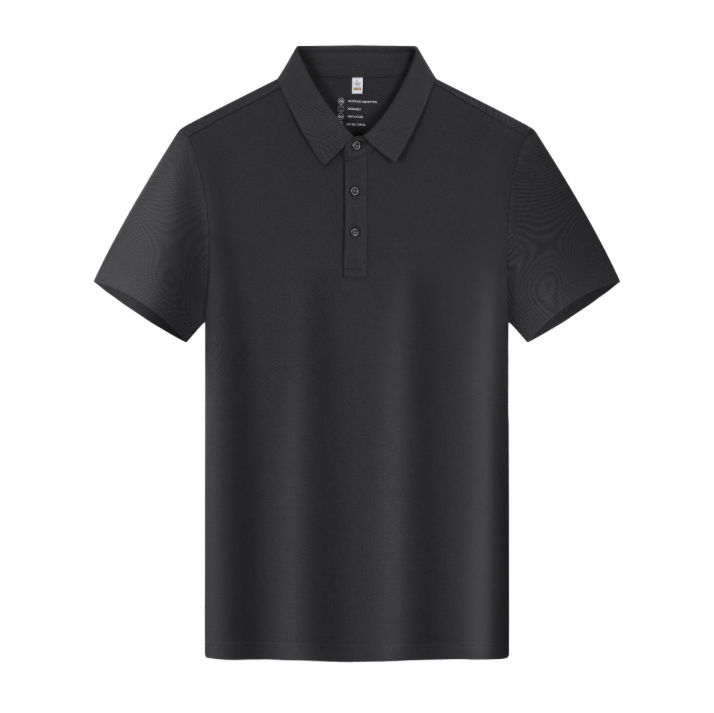
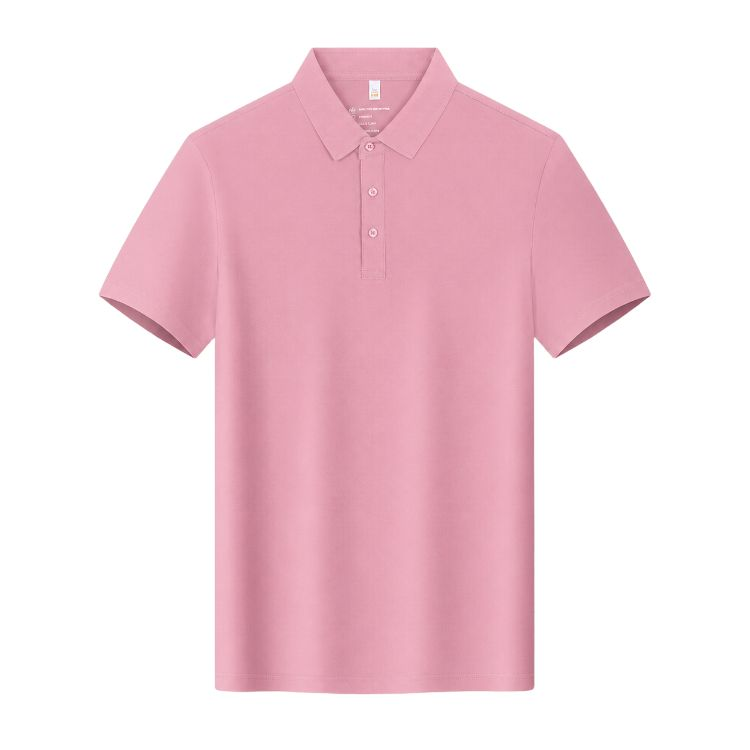
Update TH5611 color images

diff --git a/index.html b/index.html
@@ -39,7 +39,7 @@
       }
     }
   </script>
-  <link rel="stylesheet" href="css/style.css?v=20260619-fabric-fix">
+  <link rel="stylesheet" href="css/style.css?v=20260626-th5611-colors">
 </head>
 <body data-page="home">
   <header class="site-header" data-header>
@@ -51,9 +51,9 @@
     <nav class="site-nav" data-nav>
       <a href="index.html">HOME</a>
       <a href="about.html">ABOUT</a>
-      <a href="products.html?v=20260619-fabric-fix">PRODUCTS</a>
-      <a href="lookbook.html?v=20260619-fabric-fix">LOOKBOOK</a>
-      <a href="contact.html?v=20260619-fabric-fix">CONTACT</a>
+      <a href="products.html?v=20260626-th5611-colors">PRODUCTS</a>
+      <a href="lookbook.html?v=20260626-th5611-colors">LOOKBOOK</a>
+      <a href="contact.html?v=20260626-th5611-colors">CONTACT</a>
     </nav>
   </header>
 
@@ -67,8 +67,8 @@
       </div>
       <!-- <div class="hero-copy fade-up">
         <div class="button-row">
-          <a class="btn btn-dark" href="products.html?v=20260619-fabric-fix">View Products</a>
-          <a class="btn btn-light" href="contact.html?v=20260619-fabric-fix">카카오톡 문의하기</a>
+          <a class="btn btn-dark" href="products.html?v=20260626-th5611-colors">View Products</a>
+          <a class="btn btn-light" href="contact.html?v=20260626-th5611-colors">카카오톡 문의하기</a>
         </div>
       </div> -->
     </section>
@@ -79,7 +79,7 @@
         <h2>PRODUCT CATEGORIES</h2>
       </div>
       <div class="category-grid">
-        <a class="category-card image-card" href="products.html?category=Short%20Sleeve&v=20260619-fabric-fix">
+        <a class="category-card image-card" href="products.html?category=Short%20Sleeve&v=20260626-th5611-colors">
           <div class="image-frame" data-label="Short Sleeve">
             <img src="images/products/01OA1/01OA1_image_01.jpg" alt="반팔 제품 대표 이미지">
           </div>
@@ -88,7 +88,7 @@
             <p>Short Sleeve 13 Styles</p>
           </div>
         </a>
-        <a class="category-card image-card" href="products.html?category=Sleeveless&v=20260619-fabric-fix">
+        <a class="category-card image-card" href="products.html?category=Sleeveless&v=20260626-th5611-colors">
           <div class="image-frame" data-label="Sleeveless">
             <img src="images/products/08VS30/08VS30_image_01.jpg" alt="민소매 제품 대표 이미지">
           </div>
@@ -97,7 +97,7 @@
             <p>Sleeveless 3 Styles</p>
           </div>
         </a>
-        <a class="category-card image-card" href="products.html?category=Long%20Sleeve&v=20260619-fabric-fix">
+        <a class="category-card image-card" href="products.html?category=Long%20Sleeve&v=20260626-th5611-colors">
           <div class="image-frame" data-label="Long Sleeve">
             <img src="images/products/06OLK/06OLK_image_02.jpg" alt="긴팔 제품 대표 이미지">
           </div>
@@ -106,7 +106,7 @@
             <p>Long Sleeve 3 Styles</p>
           </div>
         </a>
-        <a class="category-card image-card" href="products.html?category=Polo%20Shirt&v=20260619-fabric-fix">
+        <a class="category-card image-card" href="products.html?category=Polo%20Shirt&v=20260626-th5611-colors">
           <div class="image-frame" data-label="Polo Shirt">
             <img src="images/products/TH9309/polo%20image.jpg" alt="카라티 제품 대표 이미지">
           </div>
@@ -115,7 +115,7 @@
             <p>Polo Shirt 4 Styles</p>
           </div>
         </a>
-        <a class="category-card image-card" href="products.html?category=Sweatshirt&v=20260619-fabric-fix">
+        <a class="category-card image-card" href="products.html?category=Sweatshirt&v=20260626-th5611-colors">
           <div class="image-frame" data-label="Sweatshirt">
             <img src="images/products/OE2700/OE2700_image_01.png" alt="맨투맨 제품 대표 이미지">
           </div>
@@ -124,7 +124,7 @@
             <p>Sweatshirt 4 Styles</p>
           </div>
         </a>
-        <a class="category-card image-card" href="products.html?category=Hoodie&v=20260619-fabric-fix">
+        <a class="category-card image-card" href="products.html?category=Hoodie&v=20260626-th5611-colors">
           <div class="image-frame" data-label="Hoodie">
             <img src="images/products/QXX5200/QXX5200_image_01.png" alt="후드 제품 대표 이미지">
           </div>
@@ -133,7 +133,7 @@
             <p>Hoodie 3 Styles</p>
           </div>
         </a>
-        <a class="category-card image-card" href="products.html?category=Pants&v=20260619-fabric-fix">
+        <a class="category-card image-card" href="products.html?category=Pants&v=20260626-th5611-colors">
           <div class="image-frame" data-label="Pants">
             <img src="images/products/LK3401/LK3401_image_01.png" alt="바지 제품 대표 이미지">
           </div>
@@ -151,7 +151,7 @@
           <p class="eyebrow">FEATURED LINEUP</p>
           <h2>SELECTED PRODUCTS</h2>
         </div>
-        <a class="text-link" href="products.html?v=20260619-fabric-fix">All Products</a>
+        <a class="text-link" href="products.html?v=20260626-th5611-colors">All Products</a>
       </div>
       <div class="product-grid" data-featured-products></div>
     </section>
@@ -222,7 +222,7 @@
           <p class="eyebrow">LOOKBOOK PREVIEW</p>
           <h2>MODEL FIT ARCHIVE</h2>
         </div>
-        <a class="text-link" href="lookbook.html?v=20260619-fabric-fix">View Lookbook</a>
+        <a class="text-link" href="lookbook.html?v=20260626-th5611-colors">View Lookbook</a>
       </div>
       <div class="lookbook-strip">
         <div class="image-frame tall" data-label="Lookbook 01">
@@ -246,7 +246,7 @@
       <p>안정적인 공급과 합리적인 가격으로 상담을 도와드립니다.</p>
       <h3>010-2286-3584</h3>
       <div class="button-row center">
-        <a class="btn btn-dark" href="contact.html?v=20260619-fabric-fix">Contact Us</a>
+        <a class="btn btn-dark" href="contact.html?v=20260626-th5611-colors">Contact Us</a>
         <a class="btn btn-light" href="https://open.kakao.com/o/spcUfEvi" target="_blank" rel="noopener">카카오톡 문의하기</a>
       </div>
     </section>
@@ -259,12 +259,12 @@
       <p class="footer-credit">&copy; 2026 T-WORLD KOREA. All rights reserved. Designed by Wonjong Kim.</p>
     </div>
     <div>
-      <a href="products.html?v=20260619-fabric-fix">PRODUCTS</a>
-      <a href="contact.html?v=20260619-fabric-fix">CONTACT</a>
+      <a href="products.html?v=20260626-th5611-colors">PRODUCTS</a>
+      <a href="contact.html?v=20260626-th5611-colors">CONTACT</a>
     </div>
   </footer>
 
-  <script src="data/products.js?v=20260619-fabric-fix"></script>
-  <script src="js/main.js?v=20260619-fabric-fix"></script>
+  <script src="data/products.js?v=20260626-th5611-colors"></script>
+  <script src="js/main.js?v=20260626-th5611-colors"></script>
 </body>
 </html>

diff --git a/product-detail.html b/product-detail.html
@@ -13,7 +13,7 @@
   <meta property="og:url" content="https://www.tworldkorea.co.kr/product-detail.html">
   <meta property="og:image" content="https://www.tworldkorea.co.kr/images/products/01OA1/01OA1-front.jpg">
   <meta name="twitter:card" content="summary_large_image">
-  <link rel="stylesheet" href="css/style.css?v=20260619-fabric-fix">
+  <link rel="stylesheet" href="css/style.css?v=20260626-th5611-colors">
 </head>
 <body data-page="product-detail">
   <header class="site-header" data-header>
@@ -22,9 +22,9 @@
     <nav class="site-nav" data-nav>
       <a href="index.html">HOME</a>
       <a href="about.html">ABOUT</a>
-      <a href="products.html?v=20260619-fabric-fix">PRODUCTS</a>
-      <a href="lookbook.html?v=20260619-fabric-fix">LOOKBOOK</a>
-      <a href="contact.html?v=20260619-fabric-fix">CONTACT</a>
+      <a href="products.html?v=20260626-th5611-colors">PRODUCTS</a>
+      <a href="lookbook.html?v=20260626-th5611-colors">LOOKBOOK</a>
+      <a href="contact.html?v=20260626-th5611-colors">CONTACT</a>
     </nav>
   </header>
 
@@ -34,10 +34,10 @@
 
   <footer class="site-footer">
     <div><strong>T-WORLD KOREA</strong><p>제품 상세 문의는 전화, 이메일, 카카오톡으로 가능합니다.</p><p class="footer-credit">&copy; 2026 T-WORLD KOREA. All rights reserved. Designed by Wonjong Kim.</p></div>
-    <div><a href="products.html?v=20260619-fabric-fix">PRODUCTS</a><a href="contact.html?v=20260619-fabric-fix">CONTACT</a></div>
+    <div><a href="products.html?v=20260626-th5611-colors">PRODUCTS</a><a href="contact.html?v=20260626-th5611-colors">CONTACT</a></div>
   </footer>
 
-  <script src="data/products.js?v=20260619-fabric-fix"></script>
-  <script src="js/main.js?v=20260619-fabric-fix"></script>
+  <script src="data/products.js?v=20260626-th5611-colors"></script>
+  <script src="js/main.js?v=20260626-th5611-colors"></script>
 </body>
 </html>

diff --git a/products.html b/products.html
@@ -13,7 +13,7 @@
   <meta property="og:url" content="https://www.tworldkorea.co.kr/products.html">
   <meta property="og:image" content="https://www.tworldkorea.co.kr/images/products/01OA1/01OA1-front.jpg">
   <meta name="twitter:card" content="summary_large_image">
-  <link rel="stylesheet" href="css/style.css?v=20260619-fabric-fix">
+  <link rel="stylesheet" href="css/style.css?v=20260626-th5611-colors">
 </head>
 <body data-page="products">
   <header class="site-header" data-header>
@@ -22,9 +22,9 @@
     <nav class="site-nav" data-nav>
       <a href="index.html">HOME</a>
       <a href="about.html">ABOUT</a>
-      <a href="products.html?v=20260619-fabric-fix">PRODUCTS</a>
-      <a href="lookbook.html?v=20260619-fabric-fix">LOOKBOOK</a>
-      <a href="contact.html?v=20260619-fabric-fix">CONTACT</a>
+      <a href="products.html?v=20260626-th5611-colors">PRODUCTS</a>
+      <a href="lookbook.html?v=20260626-th5611-colors">LOOKBOOK</a>
+      <a href="contact.html?v=20260626-th5611-colors">CONTACT</a>
     </nav>
   </header>
 
@@ -106,10 +106,10 @@
 
   <footer class="site-footer">
     <div><strong>T-WORLD KOREA</strong><p>제품별 소재, 중량, 컬러 정보를 확인하세요.</p><p class="footer-credit">&copy; 2026 T-WORLD KOREA. All rights reserved. Designed by Wonjong Kim.</p></div>
-    <div><a href="about.html">ABOUT</a><a href="contact.html?v=20260619-fabric-fix">CONTACT</a></div>
+    <div><a href="about.html">ABOUT</a><a href="contact.html?v=20260626-th5611-colors">CONTACT</a></div>
   </footer>
 
-  <script src="data/products.js?v=20260619-fabric-fix"></script>
-  <script src="js/main.js?v=20260619-fabric-fix"></script>
+  <script src="data/products.js?v=20260626-th5611-colors"></script>
+  <script src="js/main.js?v=20260626-th5611-colors"></script>
 </body>
 </html>

diff --git a/lookbook.html b/lookbook.html
@@ -13,7 +13,7 @@
   <meta property="og:url" content="https://www.tworldkorea.co.kr/lookbook.html">
   <meta property="og:image" content="https://www.tworldkorea.co.kr/images/lookbook/lookbook-01.jpg">
   <meta name="twitter:card" content="summary_large_image">
-  <link rel="stylesheet" href="css/style.css?v=20260619-fabric-fix">
+  <link rel="stylesheet" href="css/style.css?v=20260626-th5611-colors">
 </head>
 <body data-page="lookbook">
   <header class="site-header" data-header>
@@ -22,9 +22,9 @@
     <nav class="site-nav" data-nav>
       <a href="index.html">HOME</a>
       <a href="about.html">ABOUT</a>
-      <a href="products.html?v=20260619-fabric-fix">PRODUCTS</a>
-      <a href="lookbook.html?v=20260619-fabric-fix">LOOKBOOK</a>
-      <a href="contact.html?v=20260619-fabric-fix">CONTACT</a>
+      <a href="products.html?v=20260626-th5611-colors">PRODUCTS</a>
+      <a href="lookbook.html?v=20260626-th5611-colors">LOOKBOOK</a>
+      <a href="contact.html?v=20260626-th5611-colors">CONTACT</a>
     </nav>
   </header>
 
@@ -71,9 +71,9 @@
 
   <footer class="site-footer">
     <div><strong>T-WORLD KOREA</strong><p>모델 착용컷과 제품 실루엣 아카이브</p><p class="footer-credit">&copy; 2026 T-WORLD KOREA. All rights reserved. Designed by Wonjong Kim.</p></div>
-    <div><a href="products.html?v=20260619-fabric-fix">PRODUCTS</a><a href="contact.html?v=20260619-fabric-fix">CONTACT</a></div>
+    <div><a href="products.html?v=20260626-th5611-colors">PRODUCTS</a><a href="contact.html?v=20260626-th5611-colors">CONTACT</a></div>
   </footer>
 
-  <script src="js/main.js?v=20260619-fabric-fix"></script>
+  <script src="js/main.js?v=20260626-th5611-colors"></script>
 </body>
 </html>

diff --git a/about.html b/about.html
@@ -13,7 +13,7 @@
   <meta property="og:url" content="https://www.tworldkorea.co.kr/about.html">
   <meta property="og:image" content="https://www.tworldkorea.co.kr/images/company/korea-office.jpg">
   <meta name="twitter:card" content="summary_large_image">
-  <link rel="stylesheet" href="css/style.css?v=20260619-fabric-fix">
+  <link rel="stylesheet" href="css/style.css?v=20260626-th5611-colors">
 </head>
 <body data-page="about">
   <header class="site-header" data-header>
@@ -22,9 +22,9 @@
     <nav class="site-nav" data-nav>
       <a href="index.html">HOME</a>
       <a href="about.html">ABOUT</a>
-      <a href="products.html?v=20260619-fabric-fix">PRODUCTS</a>
-      <a href="lookbook.html?v=20260619-fabric-fix">LOOKBOOK</a>
-      <a href="contact.html?v=20260619-fabric-fix">CONTACT</a>
+      <a href="products.html?v=20260626-th5611-colors">PRODUCTS</a>
+      <a href="lookbook.html?v=20260626-th5611-colors">LOOKBOOK</a>
+      <a href="contact.html?v=20260626-th5611-colors">CONTACT</a>
     </nav>
   </header>
 
@@ -98,9 +98,9 @@
 
   <footer class="site-footer">
     <div><strong>T-WORLD KOREA</strong><p>기본 의류 도매 공급 회사 소개</p><p class="footer-credit">&copy; 2026 T-WORLD KOREA. All rights reserved. Designed by Wonjong Kim.</p></div>
-    <div><a href="products.html?v=20260619-fabric-fix">PRODUCTS</a><a href="contact.html?v=20260619-fabric-fix">CONTACT</a></div>
+    <div><a href="products.html?v=20260626-th5611-colors">PRODUCTS</a><a href="contact.html?v=20260626-th5611-colors">CONTACT</a></div>
   </footer>
 
-  <script src="js/main.js?v=20260619-fabric-fix"></script>
+  <script src="js/main.js?v=20260626-th5611-colors"></script>
 </body>
 </html>

diff --git a/js/main.js b/js/main.js
@@ -2,7 +2,7 @@
   const productData = window.products || [];
   const page = document.body.dataset.page;
   const catalogSummary = window.catalogSummary || {};
-  const assetVersion = "20260619-fabric-fix";
+  const assetVersion = "20260626-th5611-colors";
   const sampleListKey = "tworld-sample-list-v1";
   const sampleContactKey = "tworld-sample-contact-v1";
   const kakaoTalkUrl = "https://open.kakao.com/o/spcUfEvi";
@@ -417,7 +417,7 @@
 
   function productCard(product) {
     const label = categoryLabel(product.category);
-    const detailHref = `product-detail.html?id=${encodeURIComponent(product.code)}&v=20260619-fabric-fix`;
+    const detailHref = `product-detail.html?id=${encodeURIComponent(product.code)}&v=20260626-th5611-colors`;
     const customOrderBadge = isCustomOrderProduct(product) ? `<span class="custom-order-badge">주문제작</span>` : "";
     return `
       <a class="product-card image-card" href="${detailHref}">
@@ -564,7 +564,7 @@
     mount.classList.add("is-visible");
 
     if (!product) {
-      mount.innerHTML = `<div class="page-hero"><h1>PRODUCT NOT FOUND</h1><p>제품 데이터를 찾을 수 없습니다.</p><a class="btn btn-dark" href="products.html?v=20260619-fabric-fix">제품 목록으로 돌아가기</a></div>`;
+      mount.innerHTML = `<div class="page-hero"><h1>PRODUCT NOT FOUND</h1><p>제품 데이터를 찾을 수 없습니다.</p><a class="btn btn-dark" href="products.html?v=20260626-th5611-colors">제품 목록으로 돌아가기</a></div>`;
       return;
     }
     document.title = `${product.name} | 티월드코리아`;

diff --git a/contact.html b/contact.html
@@ -13,7 +13,7 @@
   <meta property="og:url" content="https://www.tworldkorea.co.kr/contact.html">
   <meta property="og:image" content="https://www.tworldkorea.co.kr/images/company/korea-office.jpg">
   <meta name="twitter:card" content="summary_large_image">
-  <link rel="stylesheet" href="css/style.css?v=20260619-fabric-fix">
+  <link rel="stylesheet" href="css/style.css?v=20260626-th5611-colors">
 </head>
 <body data-page="contact">
   <header class="site-header" data-header>
@@ -120,6 +120,6 @@
     <div><a href="products.html">PRODUCTS</a><a href="lookbook.html">LOOKBOOK</a></div>
   </footer>
 
-  <script src="js/main.js?v=20260619-fabric-fix"></script>
+  <script src="js/main.js?v=20260626-th5611-colors"></script>
 </body>
 </html>
